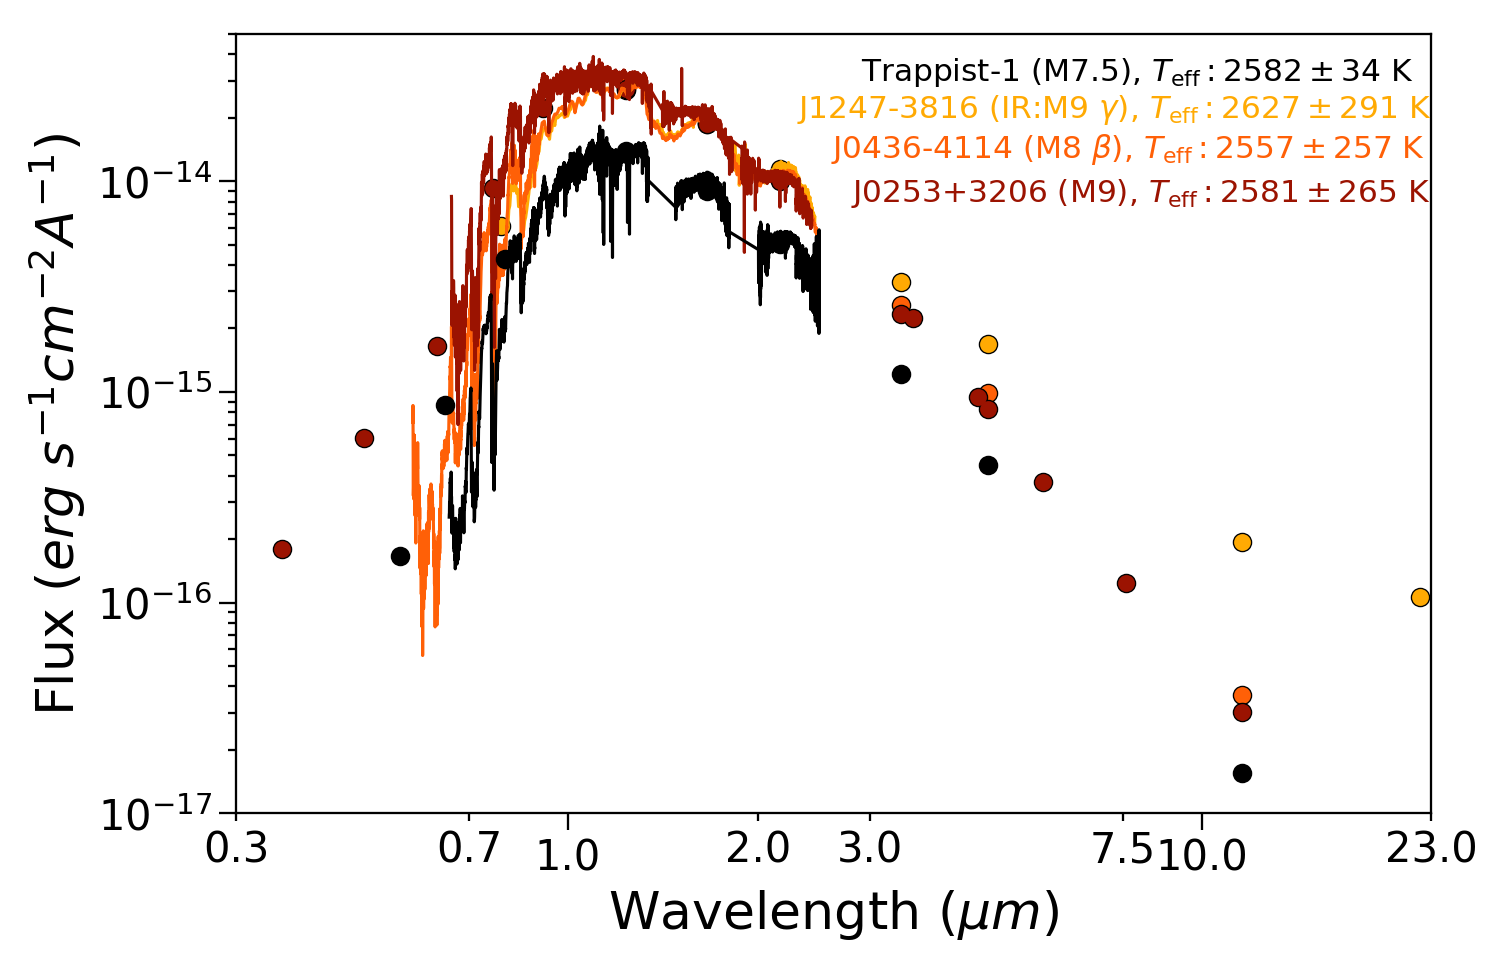
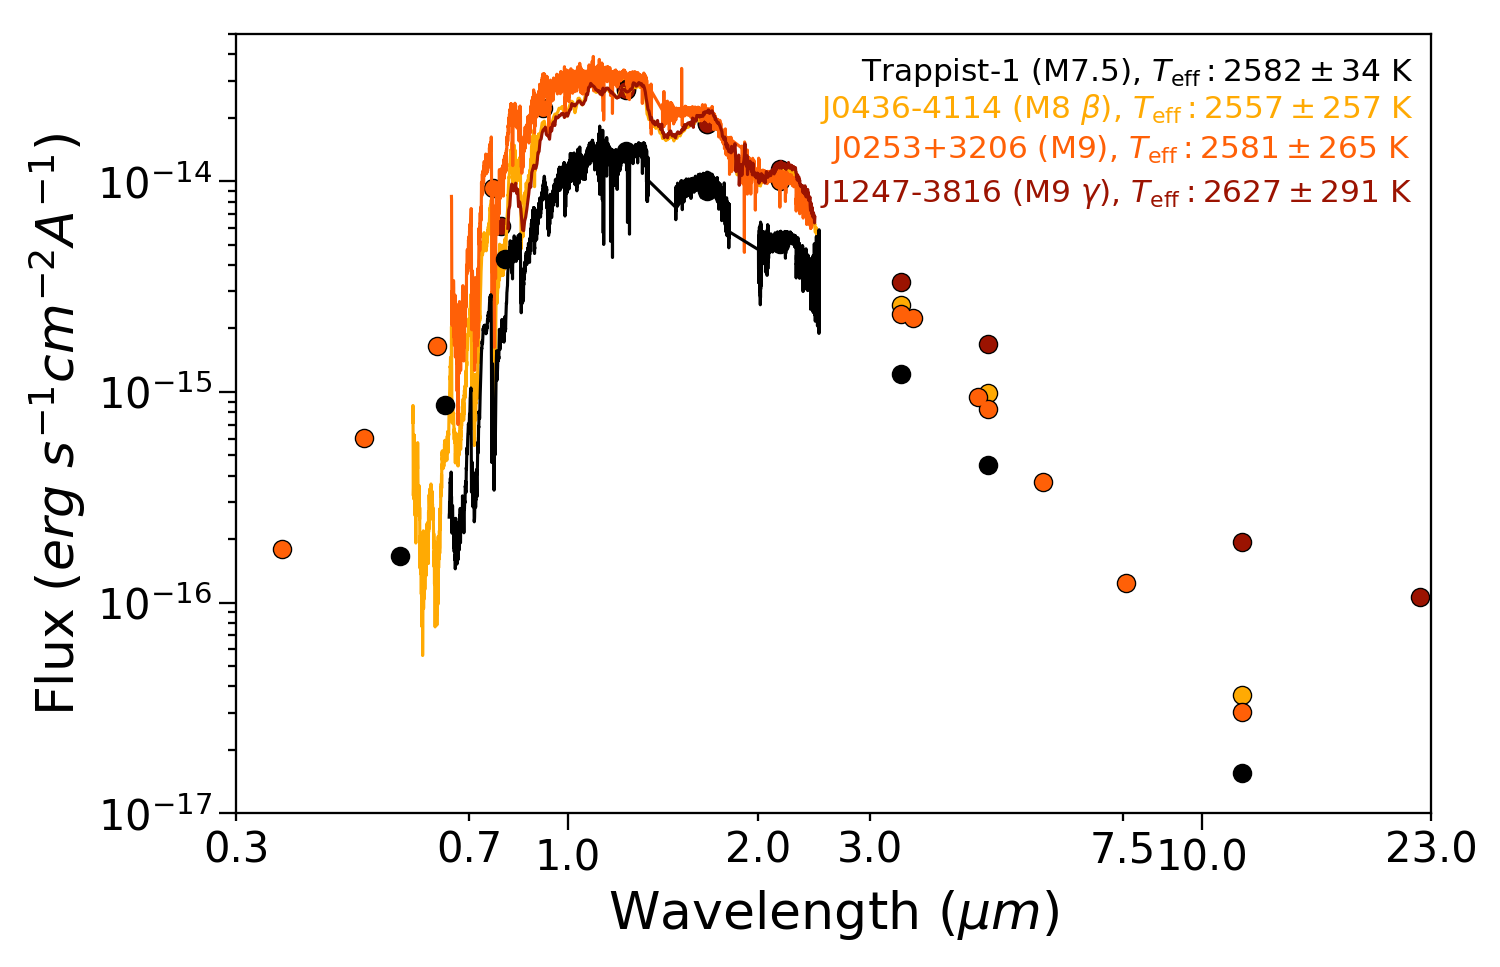
Updates with new sample.

diff --git a/Jbandteffcomp.py b/Jbandteffcomp.py
@@ -6,25 +6,24 @@ import matplotlib.pyplot as plt
 # ------------------- Read in Spectra and Photometry files ---------------------------
 # ------------------------------------------------------------------------------------
 # Read  all in as pandas dataframes
-df_trap = pd.read_csv('Data/FIRE2306-0502 (M7.5) SED.txt', sep=" ", comment='#', header=None,
+df_trap = pd.read_csv('Data/Gaia2306-0502 (M7.5) SED.txt', sep=" ", comment='#', header=None,
                       names=["w", "f", "err"])
 
 # Comparison objects with same Teff
 # ----Field---
-df_vb8 = pd.read_csv('Data/field_comp/1655-0823 (M7) SED.txt', sep=" ", comment='#', header=None,
+df_vb8 = pd.read_csv('Data/field_comp/Gaia1655-0823 (M7) SED.txt', sep=" ", comment='#', header=None,
                        names=["w", "f", "err"])
-df_vb10 = pd.read_csv('Data/field_comp/1916+0508 (M8) SED.txt', sep=" ", comment='#', header=None,
+df_vb10 = pd.read_csv('Data/field_comp/Gaia1916+0508 (M8) SED.txt', sep=" ", comment='#', header=None,
                        names=["w", "f", "err"])
-df_0320 = pd.read_csv('Data/field_comp/0320+1854 (M8) SED.txt', sep=" ", comment='#', header=None,
+df_0320 = pd.read_csv('Data/field_comp/Gaia0320+1854 (M8) SED.txt', sep=" ", comment='#', header=None,
                        names=["w", "f", "err"])
-# ----Young----
-df_twa27 = pd.read_csv('Data/young_comp/1207-3932A (M8) SED.txt', sep=" ", comment='#', header=None,
+
+# -------------- Comparison objects of the same Teff (young) ----------------------------------
+df_1247 = pd.read_csv('Data/young_comp/Gaia1247-3816 (M9gamma) SED.txt', sep=" ", comment='#', header=None,
                       names=["w", "f", "err"])
-df_twa28 = pd.read_csv('Data/young_comp/1102-3430 (M8.5gamma) SED.txt', sep=" ", comment='#', header=None,
+df_0436 = pd.read_csv('Data/young_comp/Gaia0436-4114 (M8betagamma) SED.txt', sep=" ", comment='#', header=None,
                       names=["w", "f", "err"])
-df_twa26 = pd.read_csv('Data/young_comp/FIRE1139-3159 (M9gamma) SED.txt', sep=" ", comment='#', header=None,
-                      names=["w", "f", "err"])
-df_twa29 = pd.read_csv('Data/young_comp/FIRE1245-4429 (M9.5) SED.txt', sep=" ", comment='#', header=None,
+df_0253 = pd.read_csv('Data/young_comp/Gaia0253+3206 (M7beta) SED.txt', sep=" ", comment='#', header=None,
                       names=["w", "f", "err"])
 
 # -------------------------------------------------------------------------------------
@@ -43,17 +42,15 @@ norm_df_vb10 = df_vb10['f']/(np.average(norm_region7['f']))
 norm_region8 = df_0320[(df_0320['w'] >= 1.22) & (df_0320['w'] <= 1.23)]
 norm_df_0320 = df_0320['f']/(np.average(norm_region8['f']))
 
-norm_region3 = df_twa27[(df_twa27['w'] >= 1.22) & (df_twa27['w'] <= 1.23)]
-norm_df_twa27 = df_twa27['f']/(np.average(norm_region3['f']))
+norm_region3 = df_1247[(df_1247['w'] >= 1.22) & (df_1247['w'] <= 1.23)]
+norm_df_1247 = df_1247['f']/(np.average(norm_region3['f']))
 
-norm_region4 = df_twa28[(df_twa28['w'] >= 1.22) & (df_twa28['w'] <= 1.23)]
-norm_df_twa28 = df_twa28['f']/(np.average(norm_region4['f']))
+norm_region4 = df_0436[(df_0436['w'] >= 1.22) & (df_0436['w'] <= 1.23)]
+norm_df_0436 = df_0436['f']/(np.average(norm_region4['f']))
 
-norm_region5 = df_twa26[(df_twa26['w'] >= 1.22) & (df_twa26['w'] <= 1.23)]
-norm_df_twa26 = df_twa26['f']/(np.average(norm_region5['f']))
+norm_region5 = df_0253[(df_0253['w'] >= 1.22) & (df_0253['w'] <= 1.23)]
+norm_df_0253 = df_0253['f']/(np.average(norm_region5['f']))
 
-norm_region6 = df_twa29[(df_twa29['w'] >= 1.22) & (df_twa29['w'] <= 1.23)]
-norm_df_twa29 = df_twa29['f']/(np.average(norm_region6['f']))
 
 # -------------------------------------------------------------------------------------
 # ---------------------- Plotting: J band comparison ----------------------------------
@@ -78,10 +75,10 @@ ax1.plot(df_0320['w'], norm_df_0320, c='#A0B2BF')
 ax1.plot(df_vb10['w'], norm_df_vb10 + 0.6, c='#6A777F')
 ax1.plot(df_vb8['w'], norm_df_vb8 + 1.1, c='#7C7D70')
 ax1.plot(df_trap['w'], norm_df_trap + 1.8, c='k')
-ax1.plot(df_twa27['w'], norm_df_twa27 + 2.3, c='#FF6C11')
-ax1.plot(df_twa28['w'], norm_df_twa28 + 2.75, c='#E8470F')
-ax1.plot(df_twa26['w'], norm_df_twa26 + 3.25, c='#FF3215')
-ax1.plot(df_twa29['w'], norm_df_twa29 + 4, c='#E81011')
+ax1.plot(df_0436['w'], norm_df_0436 + 2.3, c='#FFAA03')
+ax1.plot(df_0253['w'], norm_df_0253 + 2.75, c='#FF6007')
+ax1.plot(df_1247['w'], norm_df_1247 + 3.25, c='#9B1301')
+
 
 # ------- Label Features --------------------------
 NaI = pd.DataFrame()

diff --git a/Trappist_youngcomparison.py b/Trappist_youngcomparison.py
@@ -42,18 +42,17 @@ ax1.loglog(df_trap['w'], df_trap['f'], c='k', zorder=22)
 trap = ax1.scatter(df_trap_phot['w'], df_trap_phot['f'], c='k', s=70, zorder=23)
 
 # Low unc
-ax1.loglog(df_1247['w'], df_1247['f'], c='#FFAA03')
-ax1.scatter(df_1247_phot['w'], df_1247_phot['f'], c='k', s=70)  # The ones with size 70 are to give the circles a
-y1247 = ax1.scatter(df_1247_phot['w'], df_1247_phot['f'], c='#FFAA03', s=50)        # black border
-
-ax1.loglog(df_0436['w'], df_0436['f'], c='#FF6007')
+ax1.loglog(df_0436['w'], df_0436['f'], c='#FFAA03')
 ax1.scatter(df_0436_phot['w'], df_0436_phot['f'], c='k', s=70)
-y0436 = ax1.scatter(df_0436_phot['w'], df_0436_phot['f'], c='#FF6007', s=50)
+y0436 = ax1.scatter(df_0436_phot['w'], df_0436_phot['f'], c='#FFAA03', s=50)
 
-ax1.loglog(df_0253['w'], df_0253['f'], c='#9B1301')
+ax1.loglog(df_0253['w'], df_0253['f'], c='#FF6007')
 ax1.scatter(df_0253_phot['w'], df_0253_phot['f'], c='k', s=70)
-y0253 = ax1.scatter(df_0253_phot['w'], df_0253_phot['f'], c='#9B1301', s=50)  # medium unc
+y0253 = ax1.scatter(df_0253_phot['w'], df_0253_phot['f'], c='#FF6007', s=50)  # medium unc
 
+ax1.loglog(df_1247['w'], df_1247['f'], c='#9B1301')
+ax1.scatter(df_1247_phot['w'], df_1247_phot['f'], c='k', s=70)  # The ones with size 70 are to give the circles a
+y1247 = ax1.scatter(df_1247_phot['w'], df_1247_phot['f'], c='#9B1301', s=50)        # black border
 
 # ----- Set axes limits, reformat ticks -----------
 plt.xlim([0.3, 23])
@@ -72,9 +71,9 @@ plt.ylabel('Flux ($erg\ s^{-1} cm^{-2} A^{-1}$)', fontsize=25)
 
 # ------ Labeling Objects --------
 ax1.annotate('Trappist-1 (M7.5), $T_\mathrm{eff}: 2582 \pm 34$ K', xy=(2.9, 3*10**(-14)), color='k', fontsize=15)
-ax1.annotate('J1247-3816 (IR:M9 $\gamma$), $T_\mathrm{eff}: 2627 \pm 291$ K', xy=(2.3, 2*10**(-14)), color='#FFAA03', fontsize=15)
-ax1.annotate('J0436-4114 (M8 $\\beta$), $T_\mathrm{eff}: 2557 \pm 257$ K', xy=(2.6, 1.3*10**(-14)), color='#FF6007', fontsize=15)
-ax1.annotate('J0253+3206 (M9), $T_\mathrm{eff}: 2581 \pm 265$ K', xy=(2.8, 8*10**(-15)), color='#9B1301', fontsize=15)
+ax1.annotate('J0436-4114 (M8 $\\beta$), $T_\mathrm{eff}: 2557 \pm 257$ K', xy=(2.5, 2*10**(-14)), color='#FFAA03', fontsize=15)
+ax1.annotate('J0253+3206 (M9), $T_\mathrm{eff}: 2581 \pm 265$ K', xy=(2.6, 1.3*10**(-14)), color='#FF6007', fontsize=15)
+ax1.annotate('J1247-3816 (M9 $\gamma$), $T_\mathrm{eff}: 2627 \pm 291$ K', xy=(2.5, 8*10**(-15)), color='#9B1301', fontsize=15)
 
 plt.tight_layout()
 plt.savefig('Figures/young_comp.png', dpi=150)
